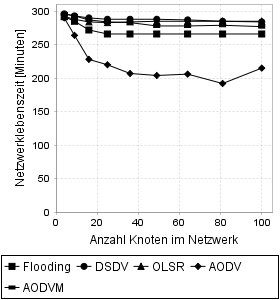
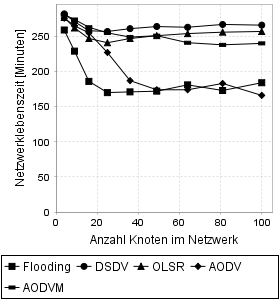
Einige Analysen durchgeführt

diff --git a/src/Simulator/ComparativeEvaluation.java b/src/Simulator/ComparativeEvaluation.java
@@ -408,27 +408,27 @@ public class ComparativeEvaluation {
 			
 			System.out.println("Flooding - " + numberOfNodes[i] + " Nodes");
 			floodingLifetime[0][i] = numberOfNodes[i];
-			floodingLifetime[1][i] = floodingSimulator.lifetimeAnalysisRandomSorceAndDest(networkWidth[i], 1 * 60,
+			floodingLifetime[1][i] = floodingSimulator.lifetimeAnalysisRandomSorceAndDest(networkWidth[i], 10,
 					payloadSize, maxPairs) / 1000 / 60;
 			
 			System.out.println("DSDV - " + numberOfNodes[i] + " Nodes");
 			dsdvLifetime[0][i] = numberOfNodes[i];
-			dsdvLifetime[1][i] = dsdvSimulator.lifetimeAnalysisRandomSorceAndDest(networkWidth[i], 1 * 60,
+			dsdvLifetime[1][i] = dsdvSimulator.lifetimeAnalysisRandomSorceAndDest(networkWidth[i], 10,
 					payloadSize, maxPairs) / 1000 / 60;
 			
 			System.out.println("OLSR - " + numberOfNodes[i] + " Nodes");
 			olsrLifetime[0][i] = numberOfNodes[i];
-			olsrLifetime[1][i] = olsrSimulator.lifetimeAnalysisRandomSorceAndDest(networkWidth[i], 1 * 60,
+			olsrLifetime[1][i] = olsrSimulator.lifetimeAnalysisRandomSorceAndDest(networkWidth[i], 10,
 					payloadSize, maxPairs) / 1000 / 60;
 			
 			System.out.println("AODV - " + numberOfNodes[i] + " Nodes");
 			aodvLifetime[0][i] = numberOfNodes[i];
-			aodvLifetime[1][i] = aodvSimulator.lifetimeAnalysisRandomSorceAndDest(networkWidth[i], 1 * 60,
+			aodvLifetime[1][i] = aodvSimulator.lifetimeAnalysisRandomSorceAndDest(networkWidth[i], 10,
 					payloadSize, maxPairs) / 1000 / 60;
 			
 			System.out.println("AODVM - " + numberOfNodes[i] + " Nodes");
 			aodvmLifetime[0][i] = numberOfNodes[i];
-			aodvmLifetime[1][i] = aodvmSimulator.lifetimeAnalysisRandomSorceAndDest(networkWidth[i], 1 * 60,
+			aodvmLifetime[1][i] = aodvmSimulator.lifetimeAnalysisRandomSorceAndDest(networkWidth[i], 10,
 					payloadSize, maxPairs) / 1000 / 60;
 		}
 		
@@ -490,32 +490,32 @@ public class ComparativeEvaluation {
 			
 			System.out.println("Flooding - " + numberOfNodes[i] + " Nodes");
 			floodingLifetime[0][i] = numberOfNodes[i];
-			floodingLifetime[1][i] = floodingSimulator.partitioningAnalysisOnePayloadmessageDestination(networkWidth[i], 1 * 60,
+			floodingLifetime[1][i] = floodingSimulator.partitioningAnalysisOnePayloadmessageDestination(networkWidth[i], 10 * 60,
 					payloadSize) / 1000 / 60;
 			
 			System.out.println("DSDV - " + numberOfNodes[i] + " Nodes");
 			dsdvLifetime[0][i] = numberOfNodes[i];
-			dsdvLifetime[1][i] = dsdvSimulator.partitioningAnalysis(networkWidth[i], 1 * 60,
+			dsdvLifetime[1][i] = dsdvSimulator.partitioningAnalysis(networkWidth[i], 10 * 60,
 					payloadSize) / 1000 / 60;
 			
 			System.out.println("OLSR - " + numberOfNodes[i] + " Nodes");
 			olsrLifetime[0][i] = numberOfNodes[i];
-			olsrLifetime[1][i] = olsrSimulator.partitioningAnalysisOnePayloadmessageDestination(networkWidth[i], 1 * 60,
+			olsrLifetime[1][i] = olsrSimulator.partitioningAnalysisOnePayloadmessageDestination(networkWidth[i], 10 * 60,
 					payloadSize) / 1000 / 60;
 			
 			System.out.println("AODV - " + numberOfNodes[i] + " Nodes");
 			aodvLifetime[0][i] = numberOfNodes[i];
-			aodvLifetime[1][i] = aodvSimulator.partitioningAnalysis(networkWidth[i], 1 * 60,
+			aodvLifetime[1][i] = aodvSimulator.partitioningAnalysis(networkWidth[i], 10 * 60,
 					payloadSize) / 1000 / 60;
 			
 			System.out.println("AODVM - " + numberOfNodes[i] + " Nodes");
 			aodvmLifetime[0][i] = numberOfNodes[i];
-			aodvmLifetime[1][i] = aodvmSimulator.partitioningAnalysis(networkWidth[i], 1 * 60,
+			aodvmLifetime[1][i] = aodvmSimulator.partitioningAnalysis(networkWidth[i], 10 * 60,
 					payloadSize) / 1000 / 60;
 			
 			System.out.println("EADV - " + numberOfNodes[i] + " Nodes");
 			eadvLifetime[0][i] = numberOfNodes[i];
-			eadvLifetime[1][i] = eadvSimulator.partitioningAnalysis(networkWidth[i], 1 * 60,
+			eadvLifetime[1][i] = eadvSimulator.partitioningAnalysis(networkWidth[i], 10 * 60,
 					payloadSize) / 1000 / 60;
 		}
 		
@@ -580,27 +580,27 @@ public static void PartitioningAnalysisRandomSourceAndDest(int payloadSize, int 
 			
 			System.out.println("Flooding - " + numberOfNodes[i] + " Nodes");
 			floodingLifetime[0][i] = numberOfNodes[i];
-			floodingLifetime[1][i] = floodingSimulator.partitioningAnalysisRandomSorceAndDest(networkWidth[i], 1 * 60,
+			floodingLifetime[1][i] = floodingSimulator.partitioningAnalysisRandomSorceAndDest(networkWidth[i], 10,
 					payloadSize, maxPairs) / 1000 / 60;
 			
 			System.out.println("DSDV - " + numberOfNodes[i] + " Nodes");
 			dsdvLifetime[0][i] = numberOfNodes[i];
-			dsdvLifetime[1][i] = dsdvSimulator.partitioningAnalysisRandomSorceAndDest(networkWidth[i], 1 * 60,
+			dsdvLifetime[1][i] = dsdvSimulator.partitioningAnalysisRandomSorceAndDest(networkWidth[i], 10,
 					payloadSize, maxPairs) / 1000 / 60;
 			
 			System.out.println("OLSR - " + numberOfNodes[i] + " Nodes");
 			olsrLifetime[0][i] = numberOfNodes[i];
-			olsrLifetime[1][i] = olsrSimulator.partitioningAnalysisRandomSorceAndDest(networkWidth[i], 1 * 60,
+			olsrLifetime[1][i] = olsrSimulator.partitioningAnalysisRandomSorceAndDest(networkWidth[i], 10,
 					payloadSize, maxPairs) / 1000 / 60;
 			
 			System.out.println("AODV - " + numberOfNodes[i] + " Nodes");
 			aodvLifetime[0][i] = numberOfNodes[i];
-			aodvLifetime[1][i] = aodvSimulator.partitioningAnalysisRandomSorceAndDest(networkWidth[i], 1 * 60,
+			aodvLifetime[1][i] = aodvSimulator.partitioningAnalysisRandomSorceAndDest(networkWidth[i], 10,
 					payloadSize, maxPairs) / 1000 / 60;
 			
 			System.out.println("AODVM - " + numberOfNodes[i] + " Nodes");
 			aodvmLifetime[0][i] = numberOfNodes[i];
-			aodvmLifetime[1][i] = aodvmSimulator.partitioningAnalysisRandomSorceAndDest(networkWidth[i], 1 * 60,
+			aodvmLifetime[1][i] = aodvmSimulator.partitioningAnalysisRandomSorceAndDest(networkWidth[i], 10,
 					payloadSize, maxPairs) / 1000 / 60;
 			
 		}

diff --git a/src/Simulator/Main.java b/src/Simulator/Main.java
@@ -70,7 +70,7 @@ public class Main {
 		//ComparativeEvaluation.costAnalysis();
 		//ComparativeEvaluation.lifetimeAnalysisOneDestination(80);
 		//ComparativeEvaluation.lifetimeAnalysisRandomSorceAndDest(80, 10);
-		//ComparativeEvaluation.PartitioningAnalysisOneDestination(80);
+		ComparativeEvaluation.PartitioningAnalysisOneDestination(80);
 		ComparativeEvaluation.PartitioningAnalysisRandomSourceAndDest(80, 10);
 	}
 }
